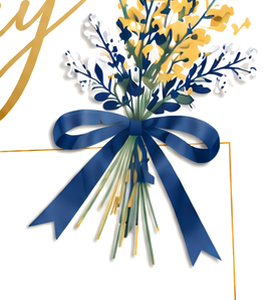
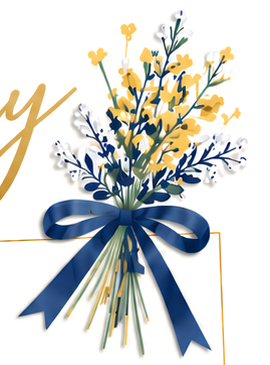
Add files via upload

diff --git a/classic-birthday-voice-v41.html b/classic-birthday-voice-v41.html
@@ -1,0 +1,74 @@
+<!doctype html>
+<html lang="ja">
+<head>
+<meta charset="utf-8">
+<meta name="viewport" content="width=device-width,initial-scale=1,viewport-fit=cover">
+<title>Classic Birthday｜コエフォト</title>
+<style>
+*{box-sizing:border-box}
+html,body{margin:0;background:#f5efe6;font-family:-apple-system,BlinkMacSystemFont,"Hiragino Sans","Yu Gothic",sans-serif}
+.page{padding:10px 6px 28px}
+.card{position:relative;width:min(620px,100%);aspect-ratio:1060/1484;margin:auto;background:#fbf8f1;overflow:hidden;box-shadow:0 12px 30px #5b493326}
+.title{position:absolute;z-index:2;left:0;top:0;width:76%;height:auto}
+.photoFrame{position:absolute;z-index:2;left:3.0%;top:17.55%;width:94.0%;height:44.0%;clip-path:polygon(0 3.3%,97.2% 0,100% 96.6%,2.2% 100%);background:#c49132}
+.photoInner{position:absolute;inset:2px;clip-path:inherit;background:#fbf8f1}
+.photo{position:absolute;z-index:3;left:3.68%;top:16.78%;width:92.64%;height:44.95%;
+clip-path:polygon(0% 5.10%,97.66% 0%,100% 94.90%,2.24% 100%);overflow:hidden;background:#eee9df}
+.photo img{width:100%;height:100%;object-fit:cover;object-position:center;display:block}
+.flower{position:absolute;z-index:8;left:74.53%;top:0;width:25.47%;height:auto;pointer-events:none}
+.hearts{position:absolute;z-index:8;left:0;top:53.23%;width:11.5%;height:auto;pointer-events:none}
+.voiceLabel{position:absolute;z-index:5;left:0;right:0;top:64.5%;text-align:center;color:#073d77;
+font-size:clamp(15px,3.6vw,23px);font-weight:700}
+.player{position:absolute;z-index:5;left:10%;right:10%;top:69.2%;height:7%;display:flex;align-items:center;gap:4%;
+padding:0 4% 0 2%;background:#fff;border-radius:18px;box-shadow:0 4px 16px #493b2714}
+.play{width:13%;aspect-ratio:1;border:0;border-radius:50%;background:#07508b;display:grid;place-items:center}
+.tri{width:0;height:0;margin-left:7%;border-top:.8em solid transparent;border-bottom:.8em solid transparent;border-left:1.15em solid #fff}
+.track{height:5px;background:#d9dde0;border-radius:9px;flex:1;overflow:hidden}.fill{height:100%;width:0;background:#07508b}
+.time{font-size:clamp(8px,2vw,13px);color:#8590a0;white-space:nowrap}
+.fromLabel{position:absolute;z-index:5;left:11.2%;top:80.8%;font-family:Georgia,serif;font-weight:700;letter-spacing:.17em;
+color:#073d77;font-size:clamp(11px,2.6vw,17px)}
+.fromLine{position:absolute;z-index:4;left:21.0%;right:15.8%;top:84.3%;border-bottom:1.5px solid #bd8d32}
+.sender{position:absolute;z-index:5;left:21.5%;right:16.5%;top:80.8%;text-align:center;color:#9a763b;font-size:clamp(13px,3.2vw,21px)}
+.fromHeart{position:absolute;z-index:5;right:9.5%;top:82.4%;width:6.2%;height:auto}
+.rightHeart{position:absolute;z-index:5;right:0;bottom:5.6%;width:21.7%;height:auto}
+.bottom{position:absolute;z-index:3;left:0;bottom:0;width:100%;height:auto}
+.brand{text-align:center;padding:18px 8px 0;color:#173f69;font-weight:700;letter-spacing:.08em}
+.tag{margin-top:6px;color:#9a8c79;font:10px Georgia,serif;letter-spacing:.18em;font-weight:400}
+audio{display:none}
+</style>
+</head>
+<body><main class="page">
+<section class="card">
+  <img class="title" src="title-exact.png" alt="">
+  <div class="photoFrame"><div class="photoInner"></div></div>
+  <div class="photo"><img id="photo" alt=""></div>
+  <img class="flower" src="flower-ribbon.png" alt="">
+  <img class="hearts" src="left-hearts.png" alt="">
+
+  <div class="voiceLabel">♬　声を聞いてね♪</div>
+  <div class="player">
+    <button id="play" class="play" aria-label="再生"><span class="tri"></span></button>
+    <div class="track"><div id="fill" class="fill"></div></div>
+    <div id="time" class="time">0:00 / --:--</div>
+  </div>
+
+  <div class="fromLabel">FROM</div>
+  <div class="fromLine"></div>
+  <div id="sender" class="sender"></div>
+  <img class="fromHeart" src="from-heart.png" alt="">
+  <img class="rightHeart" src="right-heart-line.png" alt="">
+  <img class="bottom" src="bottom-wave-exact.png" alt="">
+  <audio id="audio" preload="metadata"></audio>
+</section>
+<div class="brand">コエフォト<div class="tag">A PHOTO, A VOICE, A MEMORY.</div></div>
+</main>
+<script>
+function db(){return new Promise((ok,ng)=>{let r=indexedDB.open("koephoto-preview",2);r.onsuccess=()=>ok(r.result);r.onerror=()=>ng(r.error)})}
+async function get(k){try{let x=await db();let v=await new Promise((ok,ng)=>{let t=x.transaction("draft"),r=t.objectStore("draft").get(k);r.onsuccess=()=>ok(r.result);r.onerror=()=>ng(r.error)});x.close();return v}catch(e){return null}}
+function fmt(s){if(!Number.isFinite(s))return"--:--";s=Math.floor(s);return Math.floor(s/60)+":"+String(s%60).padStart(2,"0")}
+(async()=>{let d=JSON.parse(sessionStorage.getItem("koephoto-draft")||"{}");sender.textContent=d.sender||"";let p=await get("photo"),a=await get("audio");if(p)photo.src=URL.createObjectURL(p);if(a)audio.src=URL.createObjectURL(a)})();
+play.onclick=async()=>{audio.paused?await audio.play():audio.pause()}
+function u(){time.textContent=fmt(audio.currentTime)+" / "+fmt(audio.duration);fill.style.width=(audio.duration?audio.currentTime/audio.duration*100:0)+"%"}
+audio.onloadedmetadata=u;audio.ontimeupdate=u;audio.onended=()=>{audio.currentTime=0;u()}
+</script>
+</body></html>
